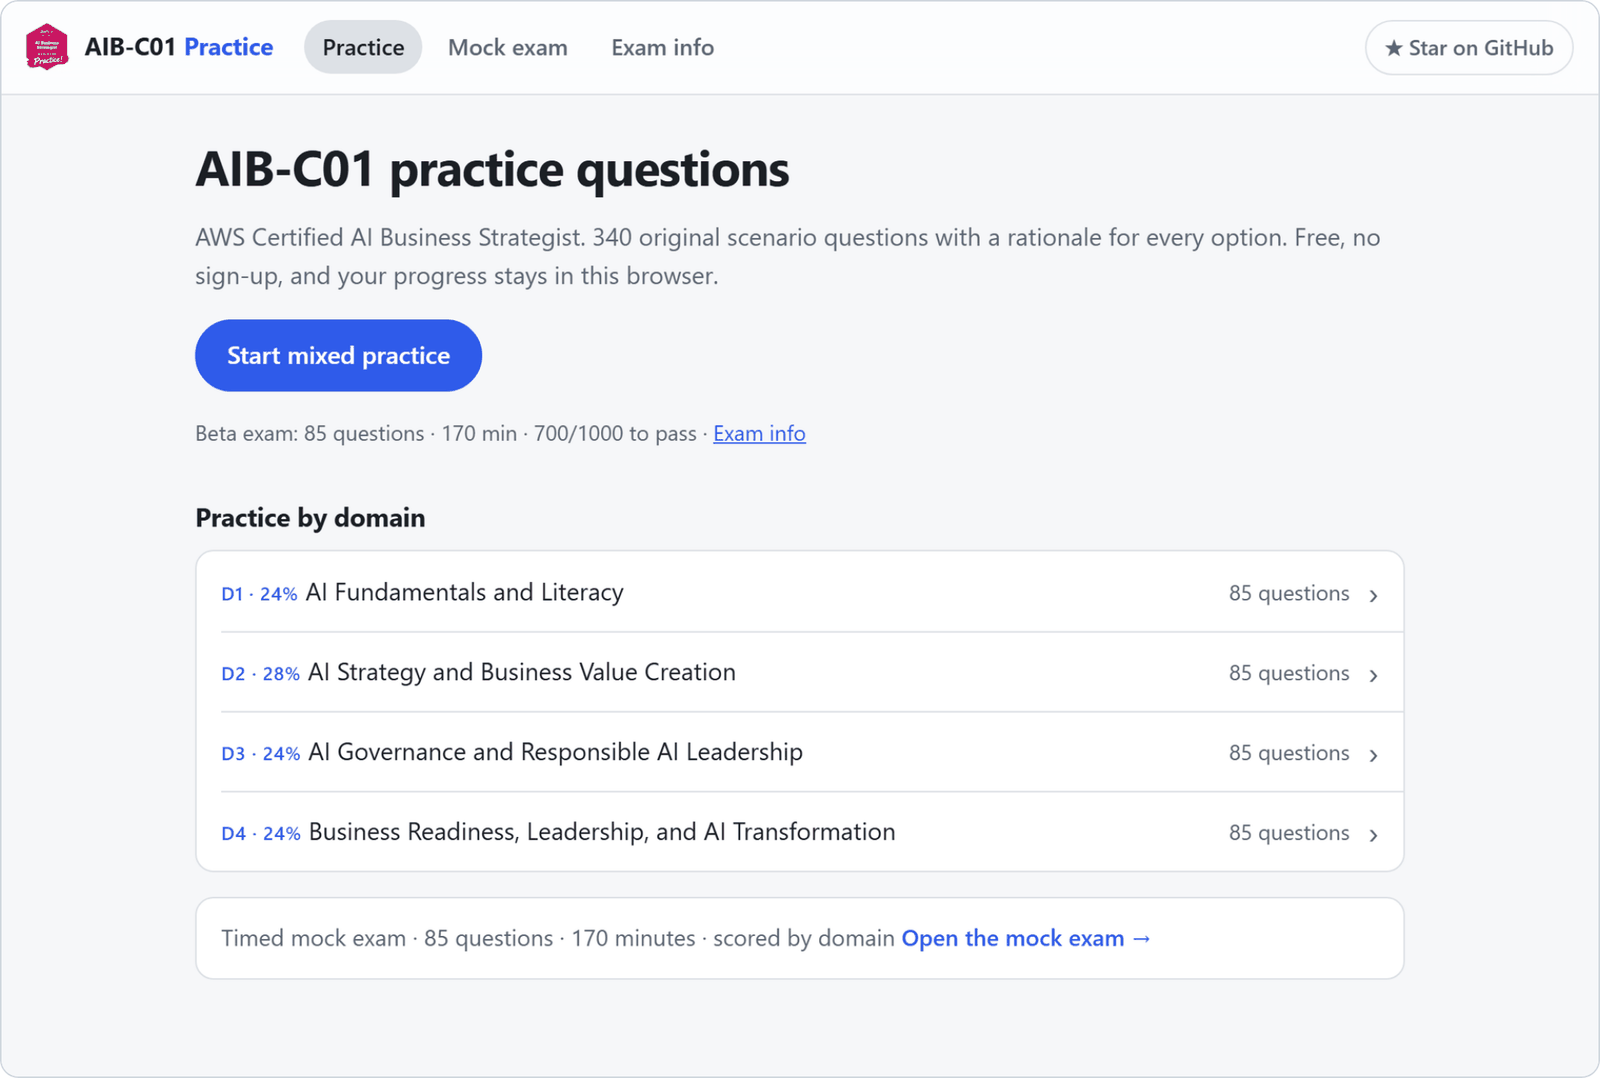
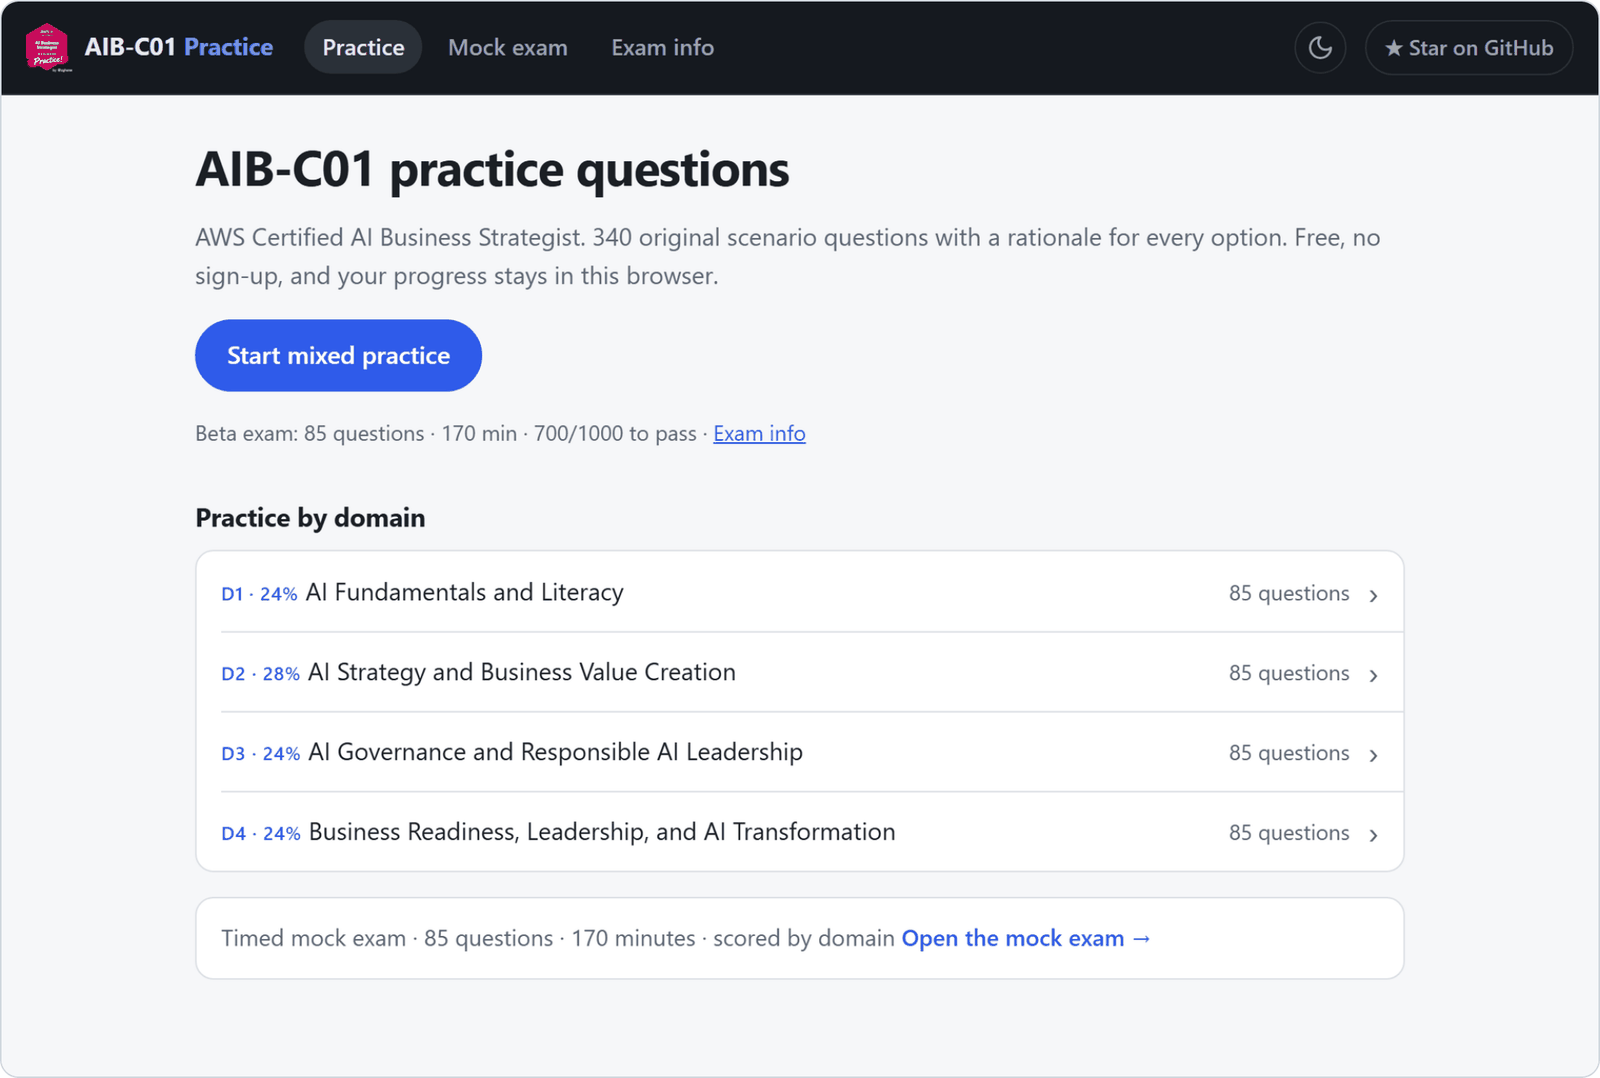
Add light and dark theme toggle that leaves the top bar unchanged

Changed region(s): [[0.0, 0.0, 1.0, 0.0918]]

diff --git a/style.css b/style.css
@@ -3,17 +3,21 @@
   --accent: #2f5bea; --accent-ink: #fff; --ok: #1a7f4b; --ok-bg: #e6f4ec; --bad: #b42318; --bad-bg: #fdecea;
   --flag: #b25e00; --glass: rgb(255 255 255 / .72);
   --ease: cubic-bezier(.2, .8, .2, 1);
+  color-scheme: light;
 }
-@media (prefers-color-scheme: dark) {
-  :root {
-    --bg: #0f1216; --card: #181c22; --ink: #e8ebef; --muted: #9aa4b1; --line: #2a3038;
-    --accent: #6b8cff; --accent-ink: #0f1216; --ok: #5bd394; --ok-bg: #12291d; --bad: #ff8a80; --bad-bg: #2e1614;
-    --flag: #ffb454; --glass: rgb(24 28 34 / .72);
-  }
+/* index.html sets data-theme before first paint: the saved choice, else the system theme.
+   The header always takes the dark tokens, so the top bar looks the same in both themes. */
+:root[data-theme="dark"], header {
+  --bg: #0f1216; --card: #181c22; --ink: #e8ebef; --muted: #9aa4b1; --line: #2a3038;
+  --accent: #6b8cff; --accent-ink: #0f1216; --ok: #5bd394; --ok-bg: #12291d; --bad: #ff8a80; --bad-bg: #2e1614;
+  --flag: #ffb454; --glass: rgb(24 28 34 / .72);
+  color-scheme: dark;
 }
 /* Solid bars and firmer edges for people who ask for less transparency or more contrast. */
-@media (prefers-reduced-transparency: reduce), (prefers-contrast: more) { :root { --glass: var(--card); } }
-@media (prefers-contrast: more) { :root { --line: #767f8c; } }
+@media (prefers-reduced-transparency: reduce), (prefers-contrast: more) { :root, :root[data-theme], header { --glass: var(--card); } }
+@media (prefers-contrast: more) { :root, :root[data-theme], header { --line: #767f8c; } }
+/* Fade colors while the theme flips, so the brightness change isn't a hard cut. */
+.theming, .theming * { transition: background-color .25s, border-color .25s, color .25s !important; }
 * { box-sizing: border-box; }
 /* 100% keeps the reader's own text size setting; sizes below are in rem so they scale with it. */
 body { margin: 0; background: var(--bg); color: var(--ink); font: 100%/1.55 system-ui, -apple-system, "Segoe UI", Roboto, sans-serif; -webkit-tap-highlight-color: transparent; }
@@ -35,6 +39,13 @@ body.session header nav, body.session header .gh { display: none; }
 header a.gh { font-size: .875rem; font-weight: 600; color: var(--muted); border: 1px solid var(--line); border-radius: 980px; padding: 6px 12px; transition: color .15s, border-color .15s; }
 header a.gh:hover { color: var(--ink); border-color: var(--accent); }
 #timer.low { color: var(--bad); }
+/* Over a light body the translucent bar would turn gray, so it goes solid in the color it has over the dark body. */
+:root:not([data-theme="dark"]) header { background: color-mix(in srgb, var(--card) 72%, var(--bg)); }
+header .icon { display: grid; place-items: center; width: 34px; height: 34px; padding: 0; border: 1px solid var(--line); border-radius: 50%; background: none; color: var(--muted); cursor: pointer; transition: color .15s, border-color .15s; }
+header .icon:hover { color: var(--ink); border-color: var(--accent); }
+header .icon svg { width: 18px; height: 18px; fill: none; stroke: currentColor; stroke-width: 2; stroke-linecap: round; stroke-linejoin: round; }
+/* The button shows where it takes you: a moon in the light theme, a sun in the dark theme. */
+:root[data-theme="dark"] #theme .moon, :root:not([data-theme="dark"]) #theme .sun { display: none; }
 main { max-width: 820px; margin: 0 auto; padding: 28px 16px 48px; }
 footer { text-align: center; color: var(--muted); font-size: .8125rem; line-height: 1.8; padding: 0 16px 32px; }
 main a, footer a { color: var(--accent); }

diff --git a/app.js b/app.js
@@ -20,6 +20,7 @@ const Q = window.QUESTIONS || [];
 const app = document.getElementById('app');
 const timerEl = document.getElementById('timer');
 const endBtn = document.getElementById('end');
+const themeBtn = document.getElementById('theme');
 
 const store = {
   get(k, d) { try { return JSON.parse(localStorage.getItem('aib:' + k)) ?? d; } catch { return d; } },
@@ -33,6 +34,18 @@ const inDomain = d => Q.filter(q => q.d == d);
 const missedIds = () => store.get('missed', []).filter(id => Q.some(q => q.id === id));
 // Stems are a scenario, a blank line, then the question, like the official practice set.
 const split = s => { const i = s.lastIndexOf('\n\n'); return i < 0 ? ['', s] : [s.slice(0, i), s.slice(i + 2)]; };
+
+// The body follows the system theme until the reader picks one with the header button, which is then remembered.
+function paint(dark, fade) {
+  const root = document.documentElement;
+  if (fade) { root.classList.add('theming'); setTimeout(() => root.classList.remove('theming'), 300); }
+  root.dataset.theme = dark ? 'dark' : 'light';
+  themeBtn.setAttribute('aria-pressed', dark);
+  themeBtn.title = dark ? 'Switch to light theme' : 'Switch to dark theme';
+}
+paint(document.documentElement.dataset.theme === 'dark');
+themeBtn.addEventListener('click', () => { const dark = themeBtn.getAttribute('aria-pressed') !== 'true'; store.set('theme', dark ? 'dark' : 'light'); paint(dark, true); });
+matchMedia('(prefers-color-scheme: dark)').addEventListener('change', e => { if (!store.get('theme')) paint(e.matches, true); });
 
 let S = null; // active session
 let tick = null;
@@ -298,7 +311,7 @@ document.addEventListener('click', e => {
 });
 
 document.addEventListener('keydown', e => {
-  if (!S || S.view !== 'quiz' || e.ctrlKey || e.metaKey || e.altKey) return;
+  if (!S || S.view !== 'quiz' || e.ctrlKey || e.metaKey || e.altKey || e.target.closest('header')) return;
   const it = S.qs[S.i];
   const k = e.key.toLowerCase(), idx = /^[1-5]$/.test(k) ? +k - 1 : /^[a-e]$/.test(k) ? k.charCodeAt(0) - 97 : -1;
   if (idx >= 0 && idx < it.order.length) pick(it.order[idx]);

diff --git a/index.html b/index.html
@@ -11,7 +11,9 @@
 <meta property="og:url" content="https://zghanw.github.io/aws-ai-business-strategist/">
 <meta property="og:image" content="https://zghanw.github.io/aws-ai-business-strategist/docs/social-preview.png">
 <meta name="twitter:card" content="summary_large_image">
+<meta name="theme-color" content="#15191f">
 <link rel="icon" href="docs/logo.png">
+<script>{ let t; try { t = JSON.parse(localStorage.getItem('aib:theme')); } catch {} document.documentElement.dataset.theme = t || (matchMedia('(prefers-color-scheme: dark)').matches ? 'dark' : 'light'); }</script>
 <link rel="stylesheet" href="style.css">
 </head>
 <body>
@@ -20,6 +22,10 @@
   <nav aria-label="Main"><a href="#/">Practice</a><a href="#/mock">Mock exam</a><a href="#/info">Exam info</a></nav>
   <span id="timer" aria-live="off"></span>
   <button class="btn" id="end" data-act="finish" hidden></button>
+  <button class="icon" id="theme" type="button" aria-label="Dark theme" aria-pressed="false">
+    <svg class="moon" viewBox="0 0 24 24" aria-hidden="true"><path d="M12 3a6 6 0 0 0 9 9 9 9 0 1 1-9-9Z"/></svg>
+    <svg class="sun" viewBox="0 0 24 24" aria-hidden="true"><circle cx="12" cy="12" r="4"/><path d="M12 2v2M12 20v2M4.93 4.93l1.41 1.41M17.66 17.66l1.41 1.41M2 12h2M20 12h2M6.34 17.66l-1.41 1.41M19.07 4.93l-1.41 1.41"/></svg>
+  </button>
   <a class="gh" href="https://github.com/zghanw/aws-ai-business-strategist" target="_blank" rel="noopener" aria-label="Star on GitHub">★<span> Star on GitHub</span></a>
 </header>
 <main id="app"></main>
